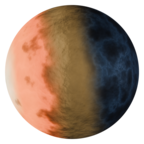
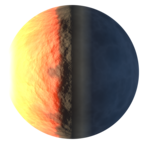
art: soften starmap terminator to ~55% lit, regen thumbnail (ci-nyj)
Follow-up to ci-pde. The overseer liked the dramatic from-space globe but
wanted the fire/ice split SOFTER: the bake gave a HARD terminator exactly at
the disc centre (a clean 50% Lambertian half). Let a little light bleed just
PAST the terminator so ~55% of the disc reads as lit and the edge softens,
without washing out the deep dark ice limb.

Model it as a subtle wrap-around AMBIENT / reflected-ground bleed, added in
bake-starmap.py as an ISOLATED self-lit layer (Add Shader) so the existing key
light -- near-white blow-out, hard fire->ice falloff, deep-dark ice, specular
sheen, vertical no-wedge belt -- is left completely intact. The bleed is a
triangular hump in Lambert space d = N.L:  max(0, min(d + WRAP, -d)). It is 0
on the lit side (sunlit hemisphere untouched), rises just past the terminator,
peaks at d = -WRAP/2, and returns to 0 for d < -WRAP so the deep ice limb stays
dark (NOT a uniform ambient wash). Tinted by the albedo so it reads as icy
ground catching a little reflected light. WRAP=0.30 wraps light a few degrees
past 90deg -> ~55% lit (measured 0.538, was 0.479).

Also wired thumbnail.png regen into render-planet.sh: the mod-portal thumbnail
is now the SAME baked globe (144x144) as the star-map icon, so the portal card
matches in-game. It had been a stale pre-ci-2f7 bake.

Tests: test_starmap_lighting.py gains two guards -- the mid band is lifted a
clear margin above the deep-dark ice (soft-terminator bleed), and the lit
[…]

diff --git a/scripts/bake-starmap.py b/scripts/bake-starmap.py
@@ -137,6 +137,62 @@ nmap.inputs["Strength"].default_value = 0.9
 links.new(tex_n.outputs["Color"], nmap.inputs["Color"])
 links.new(nmap.outputs["Normal"], bsdf.inputs["Normal"])
 
+# --- Soft terminator: a subtle wrap-around AMBIENT BLEED just past 90deg (ci-nyj)
+# The bare Lambert key gives a HARD terminator exactly at the disc centre (a clean
+# 50% half). The overseer wants it SOFTER, with a little light spilling past the
+# terminator onto the near-dark side so ~55% of the disc reads as lit -- modelled
+# as faint AMBIENT / reflected-ground light that wraps a few degrees past 90deg.
+#
+# We add it as an isolated self-lit layer (Add Shader) so the existing key light
+# -- the near-white blow-out, the hard fire->ice falloff, the deep-dark ice limb
+# and the specular ice sheen -- is left completely intact. The bleed is a
+# TRIANGULAR hump in Lambert space d = N.L (L = direction to the sun):
+#
+#   bleed(d) = max(0, min(d + WRAP, -d))
+#
+# which is 0 on the lit side (d > 0, so the sunlit hemisphere is untouched), rises
+# just past the terminator, peaks at d = -WRAP/2, and returns to 0 for d < -WRAP
+# (so the DEEP dark ice limb stays dark -- it is NOT a uniform ambient wash). Tinted
+# by the albedo so it reads as the icy ground catching a little reflected light.
+# WRAP ~0.30 wraps light ~a few degrees past 90deg -> ~55% of the disc lit.
+WRAP = 0.30          # how far (in N.L units) the ground-bleed reaches past 90deg
+WRAP_STRENGTH = 1.2  # brightness of the bleed (kept subtle: a soft edge, not a wash)
+
+geom = nodes.new("ShaderNodeNewGeometry")
+# d = N . L, with L = direction TO the sun = (-1,0,0): the sun shines toward +X
+# (rays travel +X) so it comes FROM the left, matching the key light above.
+dot = nodes.new("ShaderNodeVectorMath")
+dot.operation = "DOT_PRODUCT"
+dot.inputs[1].default_value = (-1.0, 0.0, 0.0)
+links.new(geom.outputs["Normal"], dot.inputs[0])
+add = nodes.new("ShaderNodeMath")
+add.operation = "ADD"
+add.inputs[1].default_value = WRAP
+links.new(dot.outputs["Value"], add.inputs[0])
+neg = nodes.new("ShaderNodeMath")
+neg.operation = "MULTIPLY"
+neg.inputs[1].default_value = -1.0
+links.new(dot.outputs["Value"], neg.inputs[0])
+hump = nodes.new("ShaderNodeMath")
+hump.operation = "MINIMUM"
+links.new(add.outputs["Value"], hump.inputs[0])
+links.new(neg.outputs["Value"], hump.inputs[1])
+clamp0 = nodes.new("ShaderNodeMath")
+clamp0.operation = "MAXIMUM"
+clamp0.inputs[1].default_value = 0.0
+links.new(hump.outputs["Value"], clamp0.inputs[0])
+scale = nodes.new("ShaderNodeMath")
+scale.operation = "MULTIPLY"
+scale.inputs[1].default_value = WRAP_STRENGTH
+links.new(clamp0.outputs["Value"], scale.inputs[0])
+bleed = nodes.new("ShaderNodeEmission")
+links.new(tex_albedo.outputs["Color"], bleed.inputs["Color"])
+links.new(scale.outputs["Value"], bleed.inputs["Strength"])
+addsh = nodes.new("ShaderNodeAddShader")
+links.new(bsdf.outputs["BSDF"], addsh.inputs[0])
+links.new(bleed.outputs["Emission"], addsh.inputs[1])
+links.new(addsh.outputs["Shader"], out.inputs["Surface"])
+
 sphere.data.materials.append(mat)
 
 # --- World ambient: a dim COOL base so the shadowed (ice) hemisphere never falls

diff --git a/mods/cindra/unit-tests/test_starmap_lighting.py b/mods/cindra/unit-tests/test_starmap_lighting.py
@@ -155,5 +155,31 @@ check("ice side is not a pure-black void (right-third luminance > 15)",
       right_lum > 15.0,
       f"right-third lum={right_lum:.1f}")
 
+# --- SOFT TERMINATOR: a slight ambient bleed past 90deg -> ~55% lit (ci-nyj) ---
+# The bare Lambert key gives a HARD terminator exactly at the disc centre (a clean
+# 50% half). ci-nyj adds a subtle wrap-around ambient/reflected-ground bleed in the
+# bake so a little light spills just PAST the terminator onto the near-dark side:
+# the terminator softens and ~55% of the disc reads as lit, WITHOUT washing out the
+# deep dark ice limb (which the right-third guards above still hold dark). We assert
+# the effect two ways so a future re-bake cannot silently revert to the hard 50%:
+#
+# 1. The near-terminator centre band (mid third) is clearly LIFTED above the deep
+#    dark ice (right third) by the bleed. Before the softening the mid third fell to
+#    -- or below -- the ambient ice floor (mid ~= right); the bleed now lifts it a
+#    clear margin above. (This FAILS on the pre-ci-nyj hard-terminator bake.)
+check("soft terminator: bleed lifts the mid band above the deep-dark ice "
+      "(mid third >= right third + 4)",
+      mid_lum >= right_lum + 4.0,
+      f"mid={mid_lum:.1f} right={right_lum:.1f} (delta={mid_lum - right_lum:.1f})")
+
+# 2. The lit fraction of the disc sits around ~55% (not a hard 50%, not a wash).
+#    "Lit" = clearly above the cool ice ambient floor (luminance > 60). Before the
+#    softening this was ~0.48 (under half); the bleed pushes it to ~0.54-0.55. Kept
+#    below 0.62 so the planet still reads as a clear lit/dark globe, not over-lit.
+lit_frac = float((disc & (lum > 60.0)).sum()) / float(disc.sum())
+check("terminator softened to ~55% of the disc lit (0.50 <= lit fraction <= 0.62)",
+      0.50 <= lit_frac <= 0.62,
+      f"lit fraction (lum>60) = {lit_frac:.3f}")
+
 print(f"\n{passed} passed, {failed} failed")
 sys.exit(0 if failed == 0 else 1)

diff --git a/PLAYTEST.md b/PLAYTEST.md
@@ -89,6 +89,54 @@ CURRENT `(tune)` values on `main`; the balance pass (ci-63d) will move them.
   limb-flare visual could return as a follow-up bead (the flare spritesheet art
   `graphics/space/cindra-flare.png` still exists for reuse).
 
+- [ ] **[LANDED] Star-map icon: soft ~55%-lit terminator (ci-nyj).** The baked
+  star-map globe used to split at a HARD 50% Lambertian half. The bake now adds a
+  subtle wrap-around ambient/reflected-ground bleed so a little light spills just
+  PAST the terminator onto the near-dark side: the terminator softens and ~55% of
+  the disc reads as lit, while the deep ice limb stays dark. *Repro:* open the
+  star-map / navigate to Cindra (`./play.sh`). *Look for:* the fire->ice boundary
+  is clearly SOFTER than a crisp centre line, with a thin lit spill onto the near
+  side, yet still a clear lit/dark planet (dark side still reads as shadowed ice).
+  *Fallback:* the baked sprite is verified off-game -- `unit-tests/test_starmap_lighting.py`
+  guards the ~55% lit fraction and the soft-terminator bleed (both FAIL on the old
+  hard-50% bake), on top of the existing left-sun / blow-out / no-wedge guards.
+  Re-bake via `scripts/render-planet.sh` (also regenerates the mod `thumbnail.png`
+  from the same globe so the portal card matches).
+
+- [ ] **[IN-FLIGHT] In-game ORBITAL view parity with the star-map icon (ci-nyj).**
+  The user reported the LIVE orbital/platform globe does NOT read like the polished
+  star-map icon. The star-map softening above is baked in Blender (icon only); the
+  orbital backdrop is engine-lit from `platform_surface_render_parameters`
+  (`prototypes/space-appearance.lua`) and does NOT yet carry the matching soft ~55%
+  terminator. *This requires an ACTUAL in-engine orbital screenshot to tune, which
+  could NOT be captured in the headless polecat worktree:* Factorio's SDL demands a
+  GLX-capable display and the box's Xvfb has no working software GLX ("GLX is not
+  supported" / "no RGB GLX visual"); there is a GPU render node but no running X
+  server. *Repro (display-capable operator):* build a tiny scenario that spawns a
+  platform in orbit and screenshots that surface, then load it graphically:
+  ```lua
+  -- mods/cindra/scenarios/orbit-shot/control.lua
+  script.on_event(defines.events.on_tick, function(e)
+    if e.tick ~= 120 then return end
+    local f = game.forces["player"]
+    if f.unlock_space_platforms ~= nil then f.unlock_space_platforms = true end
+    local p = f.create_space_platform{name="shot", planet="cindra",
+      starter_pack="space-platform-starter-pack"}
+    for _, z in ipairs({0.05, 0.1, 0.2}) do
+      game.take_screenshot{surface=p.surface, position={0,0}, zoom=z,
+        resolution={1280,1280}, path="orbit-z"..z..".png", force_render=true}
+    end
+  end)
+  ```
+  `factorio --load-scenario cindra/orbit-shot` under a real display (or Xvfb WITH
+  working GLX). *Look for:* the engine-lit globe reads like the icon -- single sun
+  from the LEFT, ~55% lit soft terminator, emissive lava, blue-ice dark side.
+  *Levers if it does not match:* `light_direction` (make it near-horizontal from
+  the left to match the bake's perpendicular sun), `light_radius` (larger = softer
+  terminator), `light_intensity_contrast`, and `emission_scalar`. The albedo
+  (`graphics/space/cindra.png`) already carries NO baked day/night shadow, so the
+  engine does all the shading.
+
 - [ ] **[LANDED] Planet is STATIC in the space view: no rotate, no wobble (ci-ane).**
   The Overseer flagged the Cindra globe as ROTATING / WOBBLING in the space/starmap
   view when it should sit still (tidal lock). The spin was already frozen
